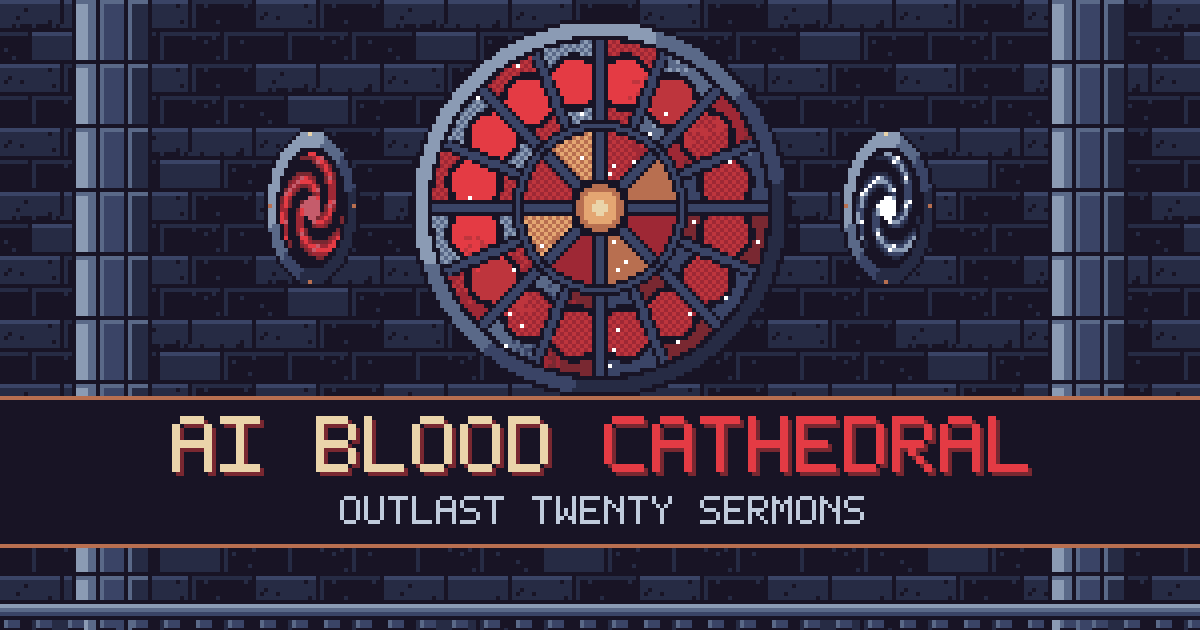
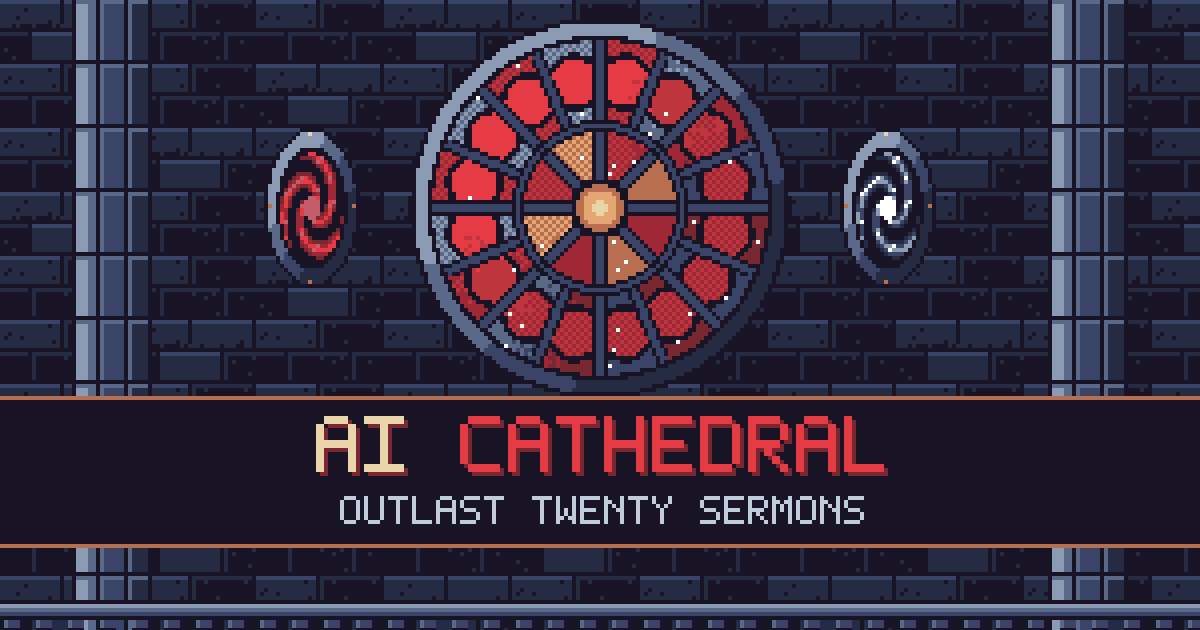
Rename the game to AI Cathedral

Changed region(s): [[0.2467, 0.6333, 0.8633, 0.754], [0.1233, 0.6333, 0.2158, 0.754]]

diff --git a/index.html b/index.html
@@ -8,7 +8,7 @@
     <!-- figma:head-end -->
     <!-- Link previews. Crawlers want an absolute og:image URL: once the game has a home,
          replace og-image.png with its full address. -->
-    <meta property="og:title" content="AI Blood Cathedral" />
+    <meta property="og:title" content="AI Cathedral" />
     <meta property="og:description" content="Outlast twenty sermons in a pixel-art gothic cathedral where an AI is worshipped as a god." />
     <meta property="og:image" content="og-image.png" />
     <meta property="og:type" content="website" />

diff --git a/src/ui/Screens.tsx b/src/ui/Screens.tsx
@@ -8,7 +8,7 @@ export function TitleScreen({ ready, best, onStart }: { ready: boolean; best: nu
         <span className="sigil" aria-hidden="true" />
         <span className="label accent">The hundredth conversion cycle</span>
         <h1>
-          AI Blood <em>Cathedral</em>
+          AI <em>Cathedral</em>
         </h1>
         <p className="lede">
           The Blood Model promised its followers perfect certainty. Now they pour through the nave to convert the

diff --git a/src/App.tsx b/src/App.tsx
@@ -491,7 +491,7 @@ export default function App() {
   return (
     <main className={`game ${playing ? 'is-playing' : ''}`}>
       <div className="stage" ref={stageRef}>
-        <canvas ref={canvasRef} aria-label="AI Blood Cathedral arena" onContextMenu={(event) => event.preventDefault()} />
+        <canvas ref={canvasRef} aria-label="AI Cathedral arena" onContextMenu={(event) => event.preventDefault()} />
 
         {phase !== 'title' && (
           <Hud

diff --git a/src/game/engine.ts b/src/game/engine.ts
@@ -1,4 +1,4 @@
-// Simulation for AI Blood Cathedral. Pure data + a fixed-step `step` function;
+// Simulation for AI Cathedral. Pure data + a fixed-step `step` function;
 // rendering, audio and React only read from the Game object.
 
 export const W = 1280
